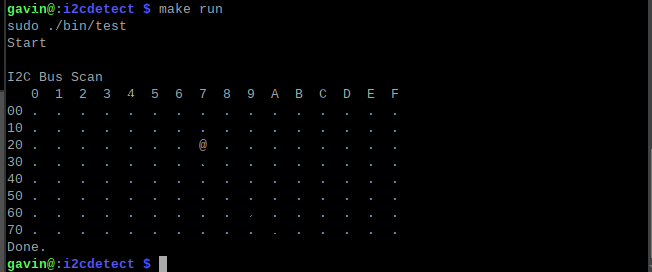
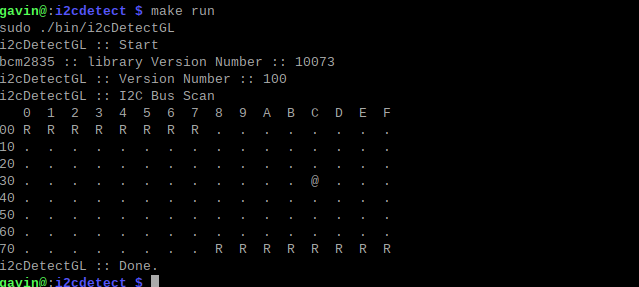
Update Project

diff --git a/src/i2cdetect/src/main.cpp b/src/i2cdetect/src/main.cpp
@@ -1,79 +1,141 @@
-// Sweep through all 7-bit I2C addresses, to see if any slaves are present on
-// the I2C bus. Print out a table that looks like this:
-//
-// I2C Bus Scan
-//   0  1  2  3  4  5  6  7  8  9  A  B  C  D  E  F
-// 0
-// 1       @
-// 2
-// 3             @
-// 4
-// 5
-// 6
-// 7
-//
-// E.g. if slave addresses 0x12 and 0x34 were acknowledged.
 
+/*!
+	@file    main.cpp
+	@author   Gavin Lyons
+	@brief Sweep through all 7-bit I2C Address, to see if any slaves are present on the I2C bus.
+	@note uses bcm2835 library
+*/
+
+/*!
+ *  Print out a table that looks like this:
+ I2C Bus Scan
+	0  1  2  3  4  5  6  7  8  9  A  B  C  D  E  F
+ 0 
+ 1       @
+ 2
+ 3             @
+ 4
+ 5
+ 6
+ 7
+
+ E.g. if slave I2CAddress 0x12 and 0x34 were acknowledged.
+ R = reserved address
+ . = no device present
+ @ = device present
+*/
+
+// === Includes ===
 #include <stdio.h> // printf
+#include <stdint.h>
 #include <bcm2835.h>
 
-bool reserved_addr(uint8_t addr);
+// === Globals === 
 
+const uint16_t _I2C_VERSION_NUMBER = 100; // Program version number 100 = 1.0.0
+uint32_t I2Cbaudrate = 100; // I2C baudrate in kilohertz
+
+// === Function prototypes ===
+bool reservedI2CAddress(uint8_t I2CAddress);
+bool Setup(void);
+void PrintI2CScanTable(void);
+void EndProgram(void);
+
+// === Main ===
 int main(int argc, char **argv) {
-	printf("Start\n");
-	if (!bcm2835_init())
-	{
-		printf("bcm2835_init failed. Are you running as root??\n");
-		return 1;
-	}
-	if (!bcm2835_i2c_begin())
-	{
-		printf("bcm2835_i2c_begin failed. Are you running as root??\n");
-		return 1;
-	}
+	
+	if (!Setup()) return -1;
+	PrintI2CScanTable();
+	EndProgram();
 
-	// This example will use I2C0 on the default SDA and SCL pins (GP4, GP5 on a Pico)
-	bcm2835_i2c_set_baudrate(100000);
-
-	printf("\nI2C Bus Scan\n");
-	printf("   0  1  2  3  4  5  6  7  8  9  A  B  C  D  E  F\n");
-
-	for (int addr = 0; addr < (1 << 7); ++addr)
-	 {
-		if (addr % 16 == 0) 
-		{
-			printf("%02x ", addr);
-		}
-
-		// Perform a 1-byte dummy read from the probe address. If a slave
-		// acknowledges this address, the function returns the number of bytes
-		// transferred. If the address byte is ignored, the function returns
-		// -1.
-
-		// Skip over any reserved addresses.
-		int ret;
-		char rxdata[1];
-		if (reserved_addr(addr))
-		{
-			ret = -1;
-		}
-		else
-		{
-			bcm2835_i2c_setSlaveAddress(addr);  //i2c address
-			ret = bcm2835_i2c_read(rxdata, 1); // returns reason code , 0 success
-		}
-		
-			printf(ret != 0 ? "." : "@");
-			printf(addr % 16 == 15 ? "\n" : "  ");
-	}
-	printf("Done.\n");
 	return 0;
+}
 
+// === Function Space ===
+
+/*!
+	@brief I2C reserves some I2CAddress for special purposes. We exclude these from the scan.
+	These are any I2CAddress of the form 000 0xxx or 111 1xxx
+	@return will return true if a reserved address found. 
+*/
+bool reservedI2CAddress(uint8_t I2CAddress)
+{
+	return (I2CAddress & 0x78) == 0 || (I2CAddress & 0x78) == 0x78;
 }
 
 
-// I2C reserves some addresses for special purposes. We exclude these from the scan.
-// These are any addresses of the form 000 0xxx or 111 1xxx
-bool reserved_addr(uint8_t addr) {
-	return (addr & 0x78) == 0 || (addr & 0x78) == 0x78;
+/*!
+  @brief sets up I2C bus with bcm2835 library
+  @return Will return false if fails to init Bc,2835 library or start I2C
+*/
+bool Setup(void)
+{
+	printf("i2cDetectGL :: Start\n");
+	
+	if (!bcm2835_init())
+	{
+		printf("Error 1201 :: bcm2835_init failed. Are you running as root??\n");
+		return false;
+	}
+	if (!bcm2835_i2c_begin())
+	{
+		printf("Error 1202 :: bcm2835_i2c_begin failed. Are you running as root??\n");
+		return false;
+	}
+	
+	printf("bcm2835 :: library Version Number :: %u\n", bcm2835_version());
+	printf("i2cDetectGL :: Version Number :: %u\n", _I2C_VERSION_NUMBER);
+	bcm2835_i2c_set_baudrate(I2Cbaudrate * 1000);
+	return true;
+}
+
+/*!
+  @brief  Print out a table of I2C bus scan
+*/
+void PrintI2CScanTable(void)
+{
+	printf("i2cDetectGL :: I2C Bus Scan\n");
+	printf("   0  1  2  3  4  5  6  7  8  9  A  B  C  D  E  F\n");
+
+	for (int I2CAddress = 0; I2CAddress < (1 << 7); ++I2CAddress)
+	 {
+		int returnValue;
+		char rxDataBuffer[1];
+		if (I2CAddress % 16 == 0) 
+		{
+			printf("%02x ", I2CAddress);
+		}
+
+		// Skip over any reserved I2C Address.
+		if (reservedI2CAddress(I2CAddress))
+		{
+			returnValue = -1;
+		}
+		else
+		{
+			bcm2835_i2c_setSlaveAddress(I2CAddress);  
+			// Perform a 1-byte dummy read from the probe I2C Address. If a slave
+			// acknowledges this I2C Address, the function returns bcm2835 I2C reason code
+			// 0x00 for success
+			returnValue = bcm2835_i2c_read(rxDataBuffer, 1); // returns reason code , 0 success
+		}
+		switch (returnValue)
+		{
+			case 0: printf("@"); break;  // Device present
+			case -1:printf("R"); break; // reserve address
+			default:printf("."); break; // no device present
+		}
+
+		printf(I2CAddress % 16 == 15 ? "\n" : "  ");
+	}
+}
+
+/*!
+  @brief  Turns off I2C and closes bcm2835 library.
+*/
+void EndProgram(void)
+{
+	bcm2835_i2c_end(); //optional , switchs off I2C bus at end
+	bcm2835_close(); // Close the library
+	printf("i2cDetectGL :: Done.\n");
 }

diff --git a/src/i2cdetect/i2cdetect.md b/src/i2cdetect/i2cdetect.md
@@ -1,0 +1,33 @@
+
+
+## Overview
+Raspberry Pi I2C bus scan detection program
+Detects I2C 7-bit address and prints them to screen using bcm2835 library.
+Uses bcm2835 Library v1.73 dependency. Provides low level I2C bus, delays and GPIO control.
+
+## Dependency
+
+1. Install the dependency bcm2835 Library if not installed (at time of writing latest version is 1.73.)
+	* Install the C libraries of bcm2835, [Installation instructions here](http://www.airspayce.com/mikem/bcm2835/)
+
+## Setup
+
+Download to Downloads folder, Enter 'src/i2cdetect' folder then type in terminal.
+to compile and test.
+
+```sh
+make
+make run
+```
+
+In ./bin/ folder there will be a executable file called i2cDetectGL.
+Copy this to a folder where you can run it eg (/usr/sbin). Note bcm2835 library 
+requires sudo.
+
+```sh
+sudo i2cDetectGL
+```
+
+## Output 
+
+![i2c](https://github.com/gavinlyonsrepo/RPI_TOOLS/blob/main/extras/image/i2c.png)

diff --git a/README.md b/README.md
@@ -1,1 +1,10 @@
-TODO
+
+
+## Overview
+
+Tools , utilities and example code for the Raspberry Pi Single board computer's.
+
+| Name | Function | Link |
+|  ------ | ---- | --- |
+| i2CDetectGL | A tool to carry out I2C bus scan and print a table to console | [Local URL Link](src/i2cdetect/i2cdetect.md) |
+|  ------ | ---- | --- |

diff --git a/extras/doc/CHANGELOG.md b/extras/doc/CHANGELOG.md
@@ -1,0 +1,1 @@
+* 12 2023 , Repo created
